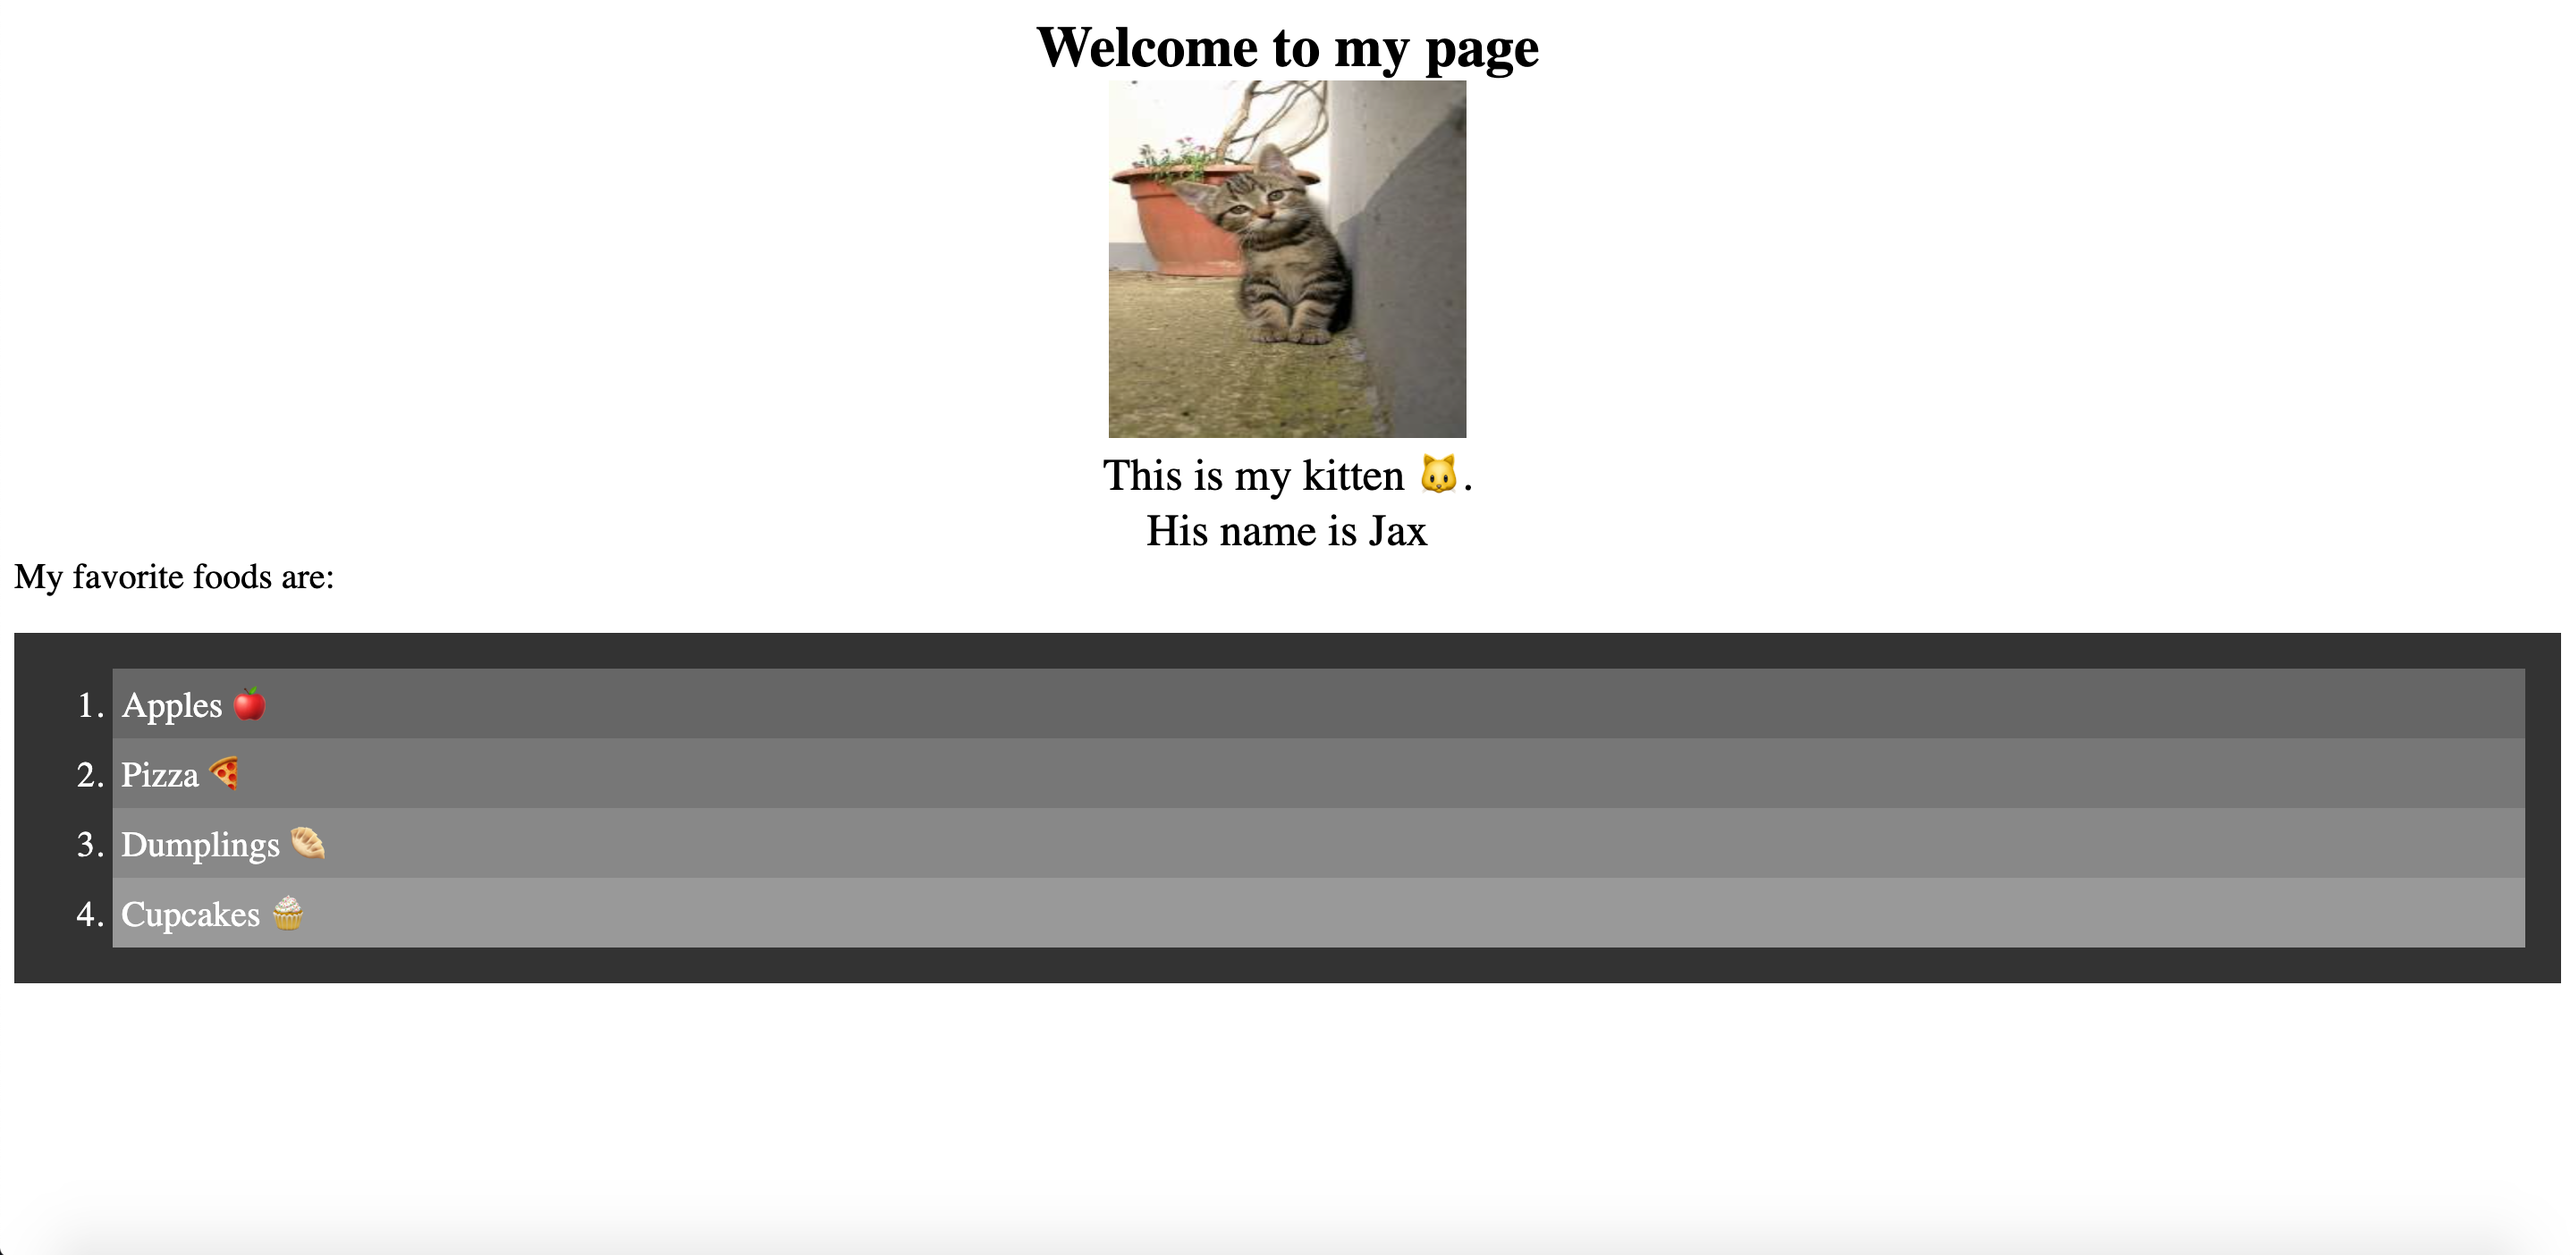
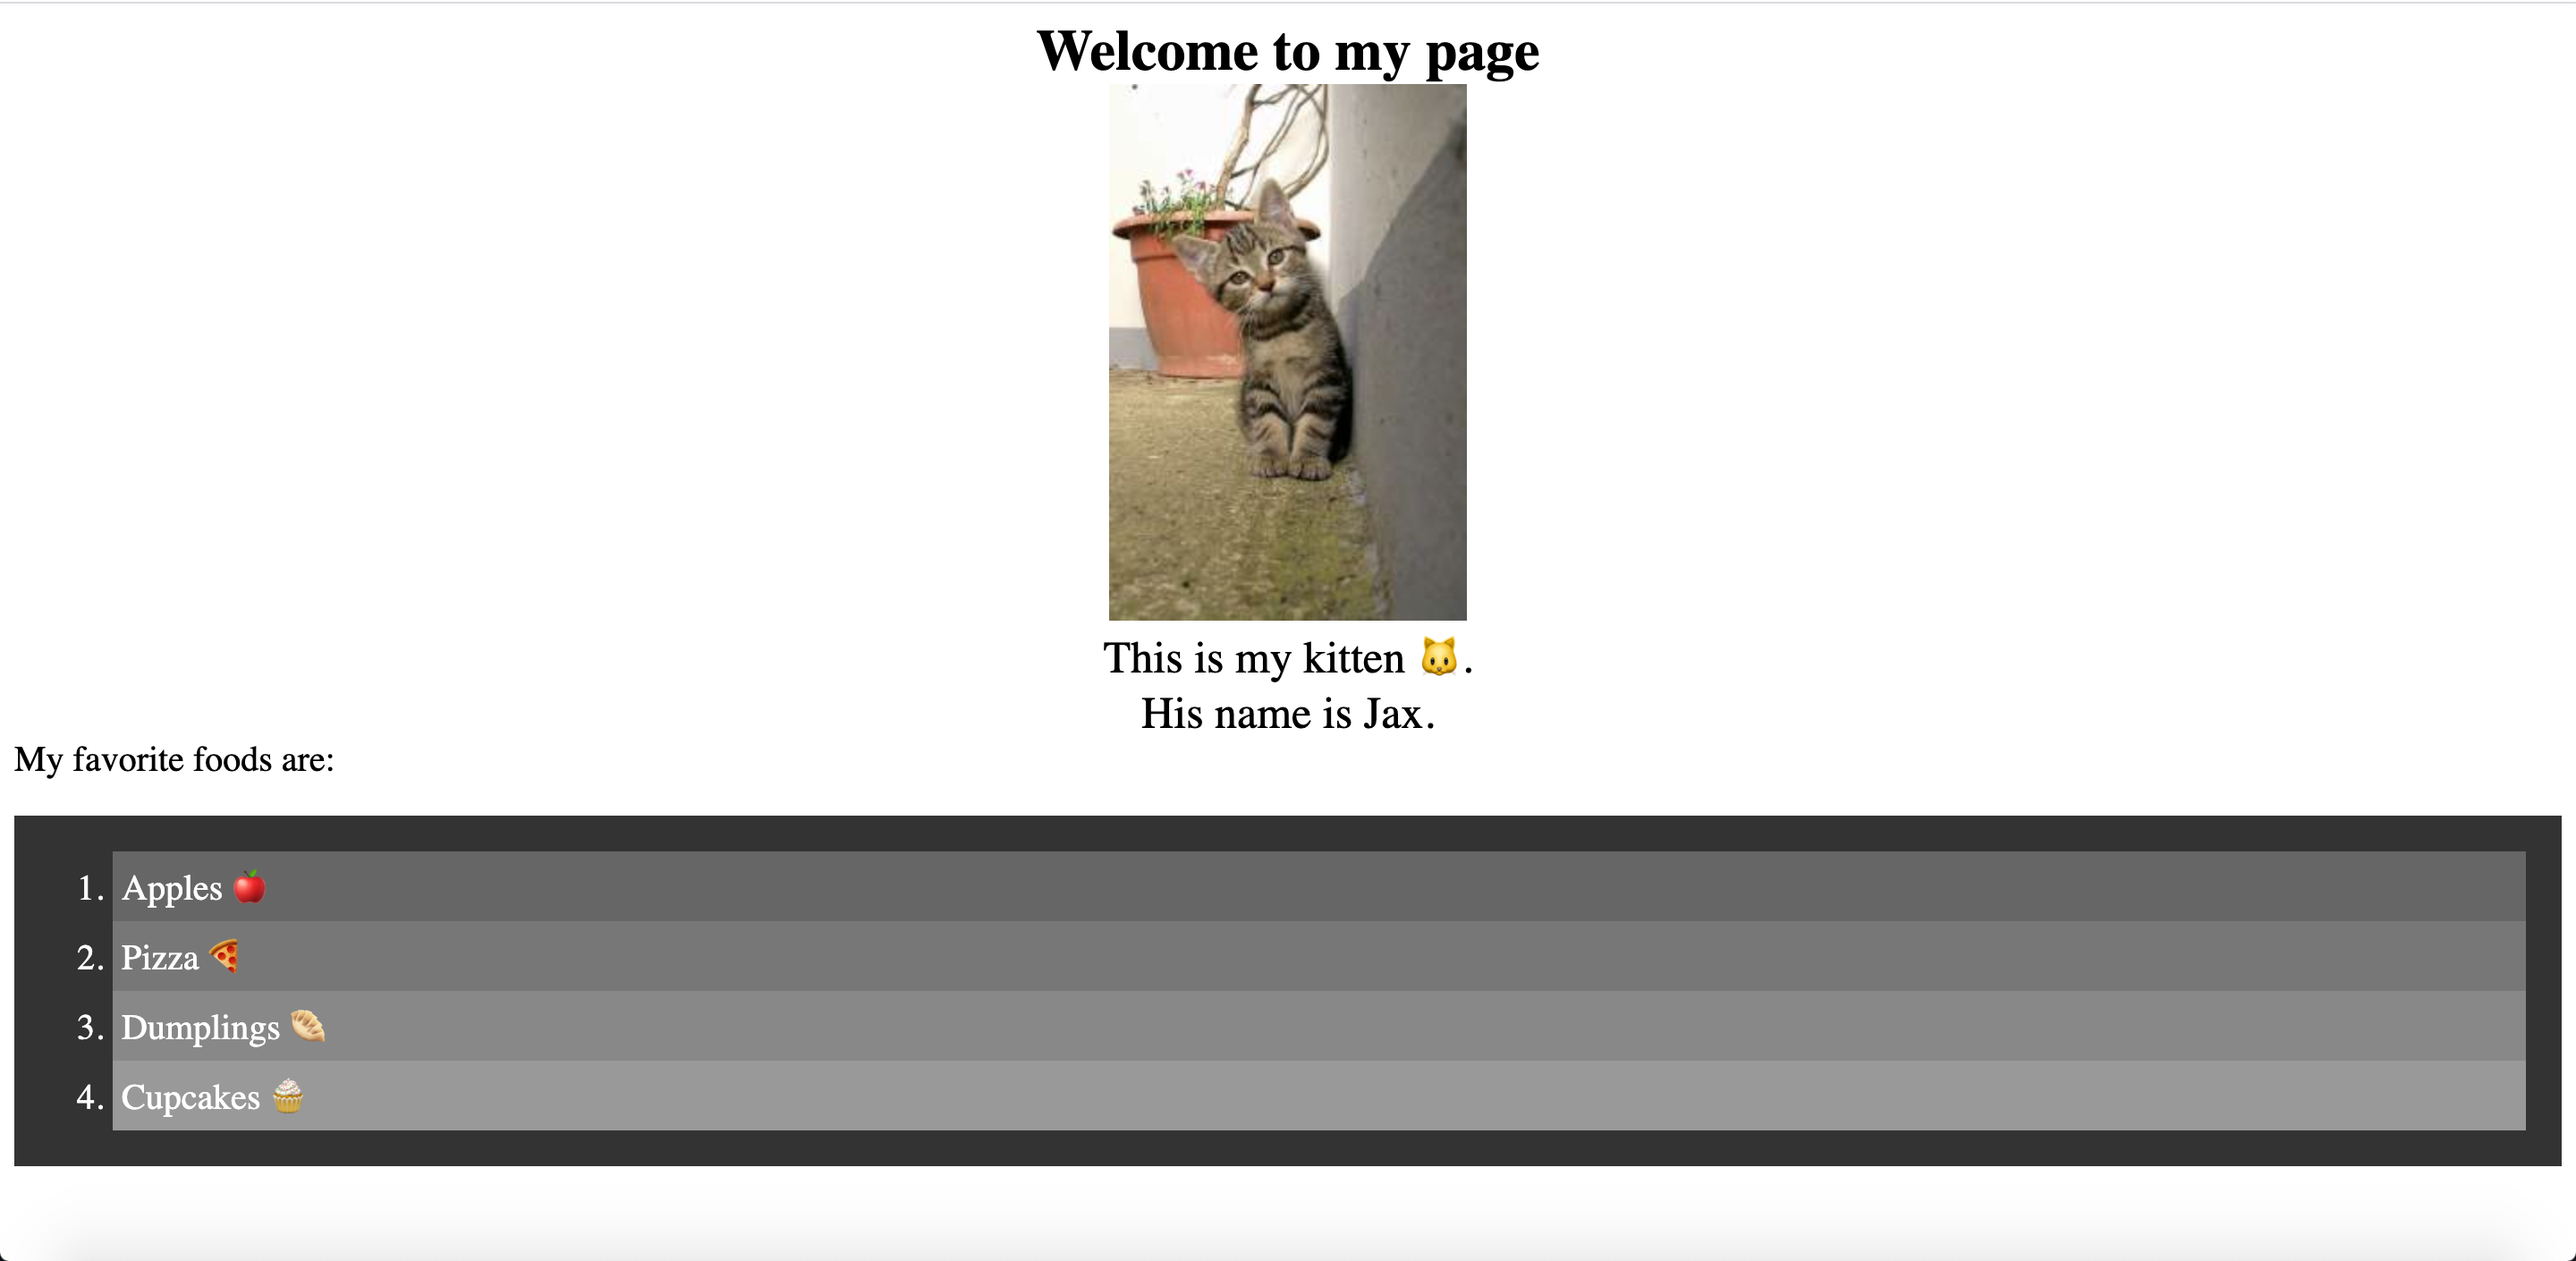
Modify Act 4 for timeframe

diff --git a/01-Class-Content/04-Web-APIs-dev/01-Activities/08-Stu_Create-Append/Solved/script.js b/01-Class-Content/04-Web-APIs-dev/01-Activities/08-Stu_Create-Append/Solved/script.js
@@ -15,7 +15,7 @@ var li4 = document.createElement("li");
 
 h1El.textContent = "Welcome to my page";
 kittenEl.textContent = "This is my kitten 🐱.";
-nameEl.textContent = "His name is Jax";
+nameEl.textContent = "His name is Jax.";
 favoriteEl.textContent = "My favorite foods are:";
 // Add text for list items
 li1.textContent = "Apples 🍎 ";
@@ -30,9 +30,9 @@ infoEl.appendChild(kittenEl);
 infoEl.appendChild(nameEl);
 body.appendChild(favoriteEl);
 favoriteEl.appendChild(listEl);
-// Append unordered list to Favorite div
+// Append ordered list 
 favoriteEl.appendChild(listEl);
-// Append list items to list element 
+// Append list items to ordered list element 
 listEl.appendChild(li1);
 listEl.appendChild(li2);
 listEl.appendChild(li3);
@@ -41,8 +41,6 @@ listEl.appendChild(li4);
 h1El.setAttribute("style", "margin:auto; width:50%; text-align:center;");
 infoEl.setAttribute("style", "margin:auto; width:50%; text-align:center;");
 imgEl.setAttribute("src", "http://placekitten.com/200/300");
-imgEl.setAttribute("height", 200);
-imgEl.setAttribute("width", 200);
 nameEl.setAttribute("style", "font-size:25px; text-align:center;");
 kittenEl.setAttribute("style", "font-size:25px; text-align:center;");
 favoriteEl.setAttribute("style", "font-size:20px;");

diff --git a/01-Class-Content/04-Web-APIs-dev/01-Activities/10-Stu_Timers-Intervals/Unsolved/script.js b/01-Class-Content/04-Web-APIs-dev/01-Activities/10-Stu_Timers-Intervals/Unsolved/script.js
@@ -1,9 +1,31 @@
 var poem = "Some say the world will end in 🔥, Some say in ice. From what I’ve tasted of desire, I hold with those who favor fire. But if it had to perish twice, I think I know enough of hate. To say that for destruction ice, Is also great, And would suffice.";
+var words = poem.split(" ");
+
+var mainEl = document.getElementById("main");
+var timerEl = document.getElementById("countdown");
+var bodyEl = document.createElement("div");
+
+var i = 0;
+
+var millisecondsPerWord = prompt("How many milliseconds between words would you like?");
 
 function prepareRead() {
-  // Create the countdown timer.
+  var timeLeft = 5;
+
+  var timeInterval = setInterval(function() {
+    timerEl.textContent = timeLeft + " seconds remaining";
+    timeLeft--;
+
+    if (timeLeft === 0) {
+      timerEl.textContent = "";
+      speedRead();
+      clearInterval(timeInterval);
+    }
+
+  }, 1000);
 }
 
 function speedRead() {
-  // Print words to the screen one at a time.
 }
+
+prepareRead();

diff --git a/01-Class-Content/04-Web-APIs-dev/01-Activities/08-Stu_Create-Append/Unsolved/script.js b/01-Class-Content/04-Web-APIs-dev/01-Activities/08-Stu_Create-Append/Unsolved/script.js
@@ -2,7 +2,6 @@ var imgEl = document.createElement("img");
 var kittenEl = document.createElement("div");
 var nameEl = document.createElement("div");
 var favoriteEl = document.createElement("div");
-var listEl = document.createElement("ol");
 
 h1El.textContent = "Welcome to my page";
 kittenEl.textContent = "This is my kitten 🐱.";
@@ -20,8 +19,6 @@ favoriteEl.appendChild(listEl);
 h1El.setAttribute("style", "margin:auto; width:50%; text-align:center;");
 infoEl.setAttribute("style", "margin:auto; width:50%; text-align:center;");
 imgEl.setAttribute("src", "http://placekitten.com/200/300");
-imgEl.setAttribute("height", 200);
-imgEl.setAttribute("width", 200);
 nameEl.setAttribute("style", "font-size:25px; text-align:center;");
 kittenEl.setAttribute("style", "font-size:25px; text-align:center;");
 favoriteEl.setAttribute("style", "font-size:20px;");

diff --git a/01-Class-Content/04-Web-APIs-dev/01-Activities/08-Stu_Create-Append/Unsolved/index.html b/01-Class-Content/04-Web-APIs-dev/01-Activities/08-Stu_Create-Append/Unsolved/index.html
@@ -4,7 +4,7 @@
   <meta charset="UTF-8">
   <meta name="viewport" content="width=device-width, initial-scale=1.0">
   <meta http-equiv="X-UA-Compatible" content="ie=edge">
-  <title>Look Ma No HTML</title>
+  <title>Create and Append</title>
 </head>
 <body>
 

diff --git a/01-Class-Content/04-Web-APIs-dev/01-Activities/08-Stu_Create-Append/README.md b/01-Class-Content/04-Web-APIs-dev/01-Activities/08-Stu_Create-Append/README.md
@@ -18,7 +18,7 @@ Work with a partner to implement the following user story:
 
 * It's done when the third list item has a background color of `#888888`.
 
-* It's done when the third list item has a background color of `#999999`.
+* It's done when the fourth list item has a background color of `#999999`.
 
 ## Assets
 
@@ -30,45 +30,15 @@ The following image demonstrates the web application's appearance and functional
 
 ## 💡 Hints
 
-Hints are guides, not answers, framed as questions. 
+The ordered list is the last child of what element? 
 
 ## 🏆 Bonus
 
 If you have completed this activity, work through the following challenge with your partner to further your knowledge:
 
-* { @TODO Refer to the Activity Planner for the bonus question. Always phrase it as a question! } 
+What is the difference between append() and appendChild()? 
 
 Use [Google](https://www.google.com) or another search engine to research this.
 
 ---
-@TODO © YEAR Trilogy Education Services, LLC, a 2U, Inc. brand. Confidential and Proprietary. All Rights Reserved.
-
-
-
-
-
-
-
-
-
-
-# Look Ma! No HTML
-
-In this activity you are going to use DOM methods to create an entire HTML page.
-
-## Instructions
-
-* You have been provided a standard HTML document. 
-
-* You may only work inside your `script.js`.
-
-* Inside `script.js` and using only DOM methods, create an entire HTML page. It should include:
-
-  * A centered h1 with a centered h2 under it.
-
-  * A centered image, with a center caption under it.
-
-  * A list of your favorite foods (or some other list of favorites).
-
-  * Some extra styling to all elements.
-
+2020 Trilogy Education Services, LLC, a 2U, Inc. brand. Confidential and Proprietary. All Rights Reserved.

diff --git a/01-Class-Content/04-Web-APIs-dev/01-Activities/10-Stu_Timers-Intervals/README.md b/01-Class-Content/04-Web-APIs-dev/01-Activities/10-Stu_Timers-Intervals/README.md
@@ -2,13 +2,9 @@
 
 Work with a partner to implement the following user story:
 
-* As a developer, I want to create a speed reading application that prints a single word of a poem at a time. The word should change at the interval provided by the user.
+* As a developer, I want to create a speed reading application that prints a single word of a poem one word at a time. The word should change at the interval provided by the user.
 
 ## Acceptance Criteria
-
-* It's done when, upon loading, a window prompt appears on the screen asking the user to input the interval between words in milliseconds. 
-
-* It's done when the user clicks `OK` after entering a number and a countdown that begins at 5 seconds appears on the screen.
 
 * It's done when after the countdown ends, words to the provided poem appear on the screen one at a time at the interval provided by the user.
 
